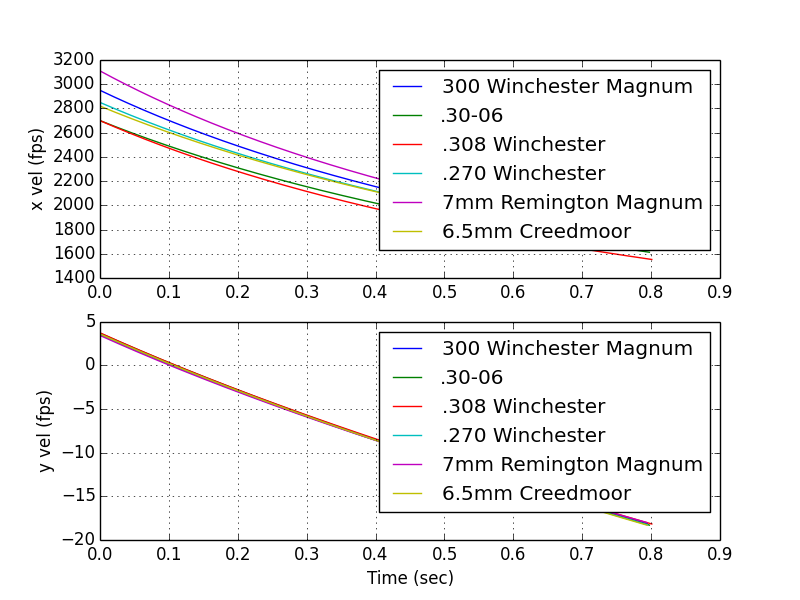
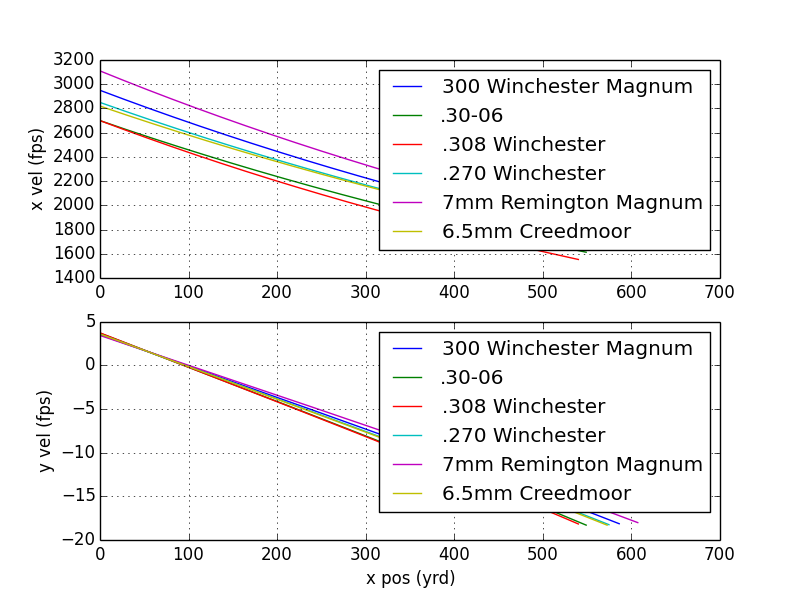
Recoil calculations

diff --git a/ballistics.py b/ballistics.py
@@ -40,6 +40,10 @@ class Ballistics( object ) :
 
     sightHeight = 1.5*in2m  
 
+    gunMass = 7.25/kg2lb
+
+    #powderDensity = .98*1000  # kg / m**3
+
 
     # def __init__(self) :
     #     self.setLaunchAngle(0)
@@ -99,16 +103,16 @@ class Ballistics( object ) :
 
         figure(2); 
         subplot(211)
-        plot(self.t,self.vel[:,0]/Ballistics.ft2m,label=self.name)
+        plot(self.pos[:,0]*Ballistics.m2yrd,self.vel[:,0]/Ballistics.ft2m,label=self.name) # 
         ylabel('x vel (fps)')
         legend(loc=0)
         grid('on')
 
         subplot(212)
-        plot(self.t,self.vel[:,1]/Ballistics.ft2m,label=self.name)
+        plot(self.pos[:,0]*Ballistics.m2yrd,self.vel[:,1]/Ballistics.ft2m,label=self.name)
         ylabel('y vel (fps)')
 
-        xlabel('Time (sec)');
+        xlabel('x pos (yrd)');
         legend(loc=0)
         grid('on')
 
@@ -221,6 +225,20 @@ class Ballistics( object ) :
 
 
         return (p*1000)*M/R/T
+
+    def calcRecoil(self) :
+        """
+        Return recoil energy in ft-lbs
+
+        Conservation of momentum m_gun * v_gun = m_bullet * v_bullet + m_pg*v_pg
+
+        v_pg = 1.75 * v_bullet  -- Tyler's reference
+
+        """
+
+        v_gun = (self.m*self.MV + self.caseCap*self.MV*1.75)/self.gunMass
+
+        return .5*self.gunMass*v_gun**2  * Ballistics.J2ftlb
         
 
 class Bullet30_06( Ballistics ) :
@@ -229,6 +247,7 @@ class Bullet30_06( Ballistics ) :
     A = pi*(cal*Ballistics.in2m)**2/4
     MV = 2700*Ballistics.ft2m
     m = 180*Ballistics.grain2kg  # 150, 180 fairly common
+    caseCap = 68*Ballistics.grain2kg 
 
 class Bullet300WinMag( Ballistics ) :
     name = '300 Winchester Magnum'
@@ -236,6 +255,7 @@ class Bullet300WinMag( Ballistics ) :
     A = pi*(cal*Ballistics.in2m)**2/4
     MV = 2950*Ballistics.ft2m
     m = 180*Ballistics.grain2kg
+    caseCap = 89*Ballistics.grain2kg
 
 class Bullet7mmRemMag( Ballistics ) :
     """ Billy Odonnel's choise.
@@ -245,6 +265,7 @@ class Bullet7mmRemMag( Ballistics ) :
     A = pi*(cal*Ballistics.in2m)**2/4
     MV = 3110*Ballistics.ft2m
     m = 150*Ballistics.grain2kg
+    caseCap = 83.2*Ballistics.grain2kg
 
 class Bullet308Winchester( Ballistics ) :
 
@@ -253,6 +274,7 @@ class Bullet308Winchester( Ballistics ) :
     A = pi*(cal*Ballistics.in2m)**2/4
     MV = 2700*Ballistics.ft2m
     m = 165*Ballistics.grain2kg  # could go lighter
+    caseCap = 56*Ballistics.grain2kg
 
 class Bullet270Winchester( Ballistics ) :
     name = ".270 Winchester"
@@ -260,6 +282,7 @@ class Bullet270Winchester( Ballistics ) :
     A = pi*(cal*Ballistics.in2m)**2/4
     MV = 2850*Ballistics.ft2m
     m = 150*Ballistics.grain2kg
+    caseCap = 67.4*Ballistics.grain2kg
 
 class Bullet65Creedmoor( Ballistics ) :
     name = "6.5mm Creedmoor"
@@ -267,6 +290,7 @@ class Bullet65Creedmoor( Ballistics ) :
     A = pi*(cal*Ballistics.in2m)**2/4
     MV = 2820*Ballistics.ft2m
     m = 140*Ballistics.grain2kg
+    caseCap = 53*Ballistics.grain2kg
 
 class Bullet65mmLapua( Ballistics ) :
     """ Tyler's
@@ -322,13 +346,34 @@ def bulletComparisons() :
     close('all')
 
     legtxt = []
+    recoil = []
     for b in bullets :
         b.zeroSight(150*Ballistics.yrd2m)
         b.solve()
         b.plot()
-        legtxt.append(b.name)
+        legtxt.append(b.name[:5])
+
+        fre = b.calcRecoil()
+        recoil.append(fre)
+        print("%-30s%.1f" % (b.name,fre))
 
     legend()
+
+    recoil = array(recoil)
+    legtxt = array(legtxt)
+
+    figure(6)
+    ind = arange(len(recoil))
+    idx = argsort(recoil)[-1::-1]
+
+    bar(ind,recoil[idx],.35)
+    ylabel('Free recoil energy (ft-lb)')
+    ax = gca()
+    ax.set_xticks(ind)
+    ax.set_xticklabels( legtxt[idx] )
+    grid('on')
+
+    savefig("Recoil.png")
 
     show()
 
